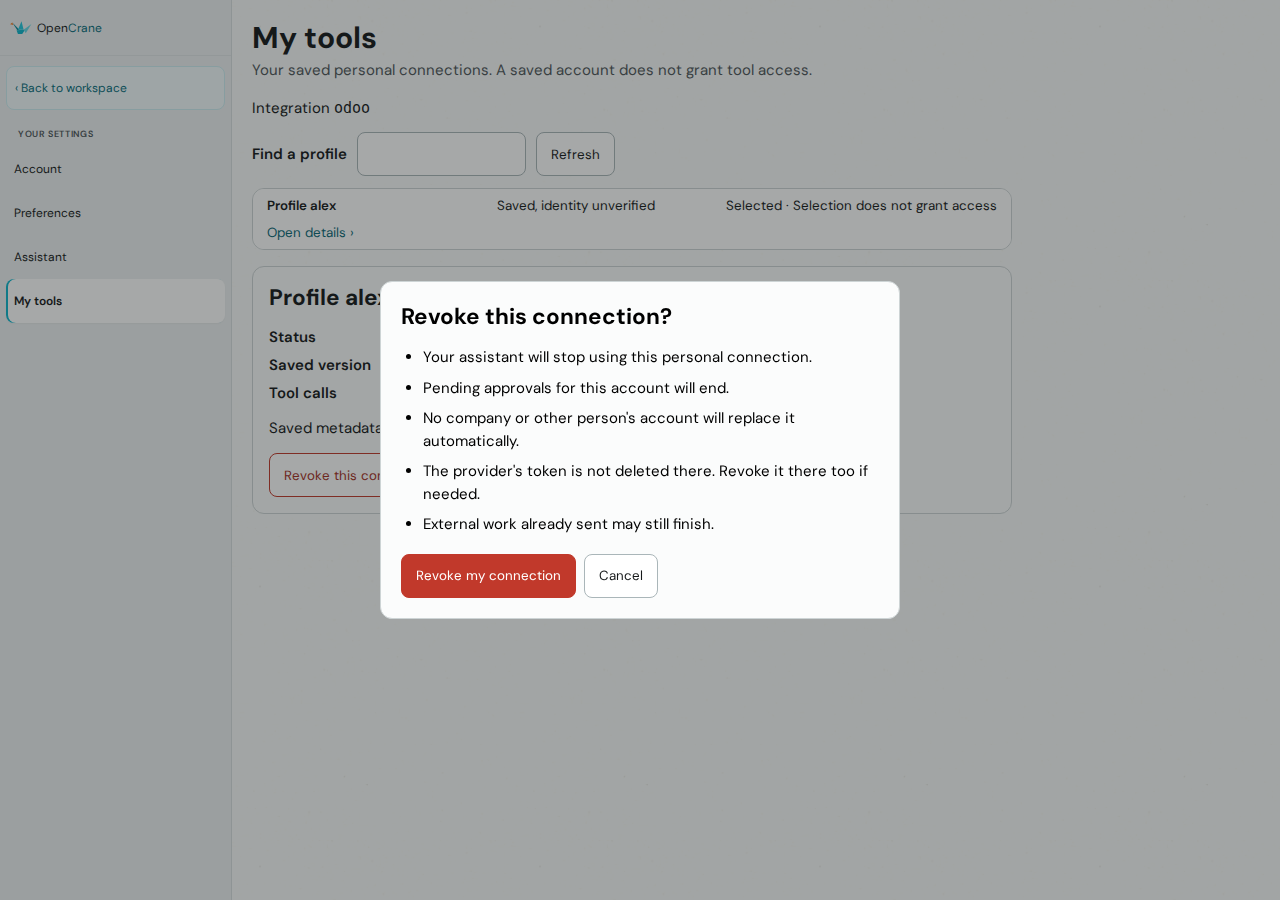
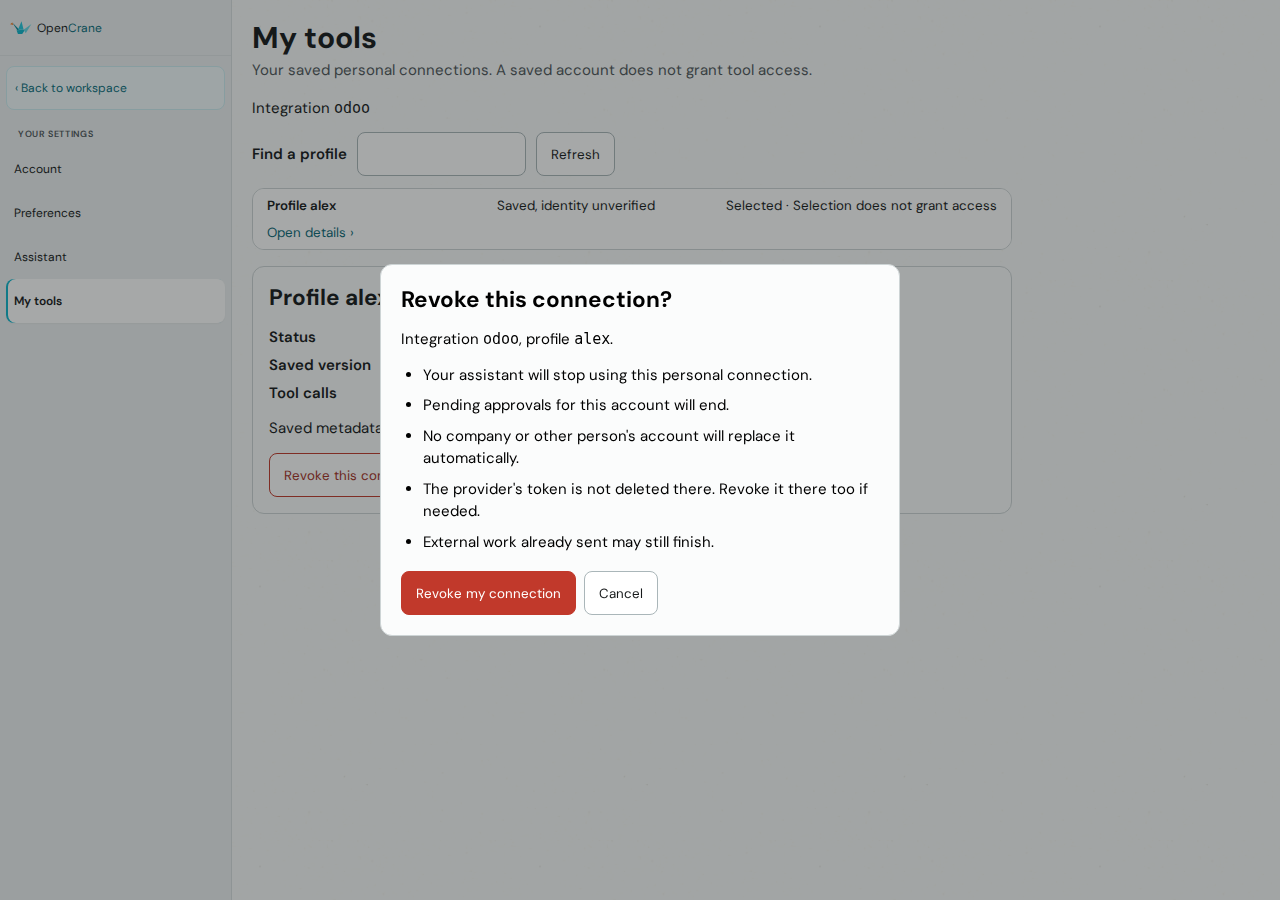
🐛 Keep tool revoke choices and references accurate

Changed region(s): [[0.2812, 0.28, 0.7188, 0.7156]]

diff --git a/apps/web/src/app/settings/my-tools.ts b/apps/web/src/app/settings/my-tools.ts
@@ -35,6 +35,10 @@ const revokeSchema = z.object({
   changeRef: identifier,
   sequence: z.number().int().positive(),
 });
+const pendingChangeSchema = z.object({
+  profileId: identifier,
+  changeRef: identifier,
+});
 type Row = z.infer<typeof rowSchema>;
 type Detail = z.infer<typeof profileSchema>;
 type LoadState = 'loading' | 'ready' | 'failed' | 'access';
@@ -61,11 +65,13 @@ export class MyTools implements OnInit, OnDestroy {
   protected readonly announcement = signal('');
   private request = new AbortController();
   private generation = 0;
+  private detailSelection = 0;
   private reviewOpener?: HTMLElement;
   private pendingProfileId: string | null = null;
 
   ngOnInit(): void {
     if (this.validServerId()) {
+      this.restorePendingChange();
       void this.load(false);
     } else {
       this.loadState.set('ready');
@@ -147,6 +153,7 @@ export class MyTools implements OnInit, OnDestroy {
     this.detail.set(null);
     this.pendingReference.set(null);
     this.pendingProfileId = null;
+    sessionStorage.removeItem(this.pendingChangeKey());
     this.closeReview();
     this.loadState.set('access');
     this.announcement.set('Access changed. Connection details were cleared.');
@@ -154,6 +161,8 @@ export class MyTools implements OnInit, OnDestroy {
   }
 
   protected async openDetail(row: Row): Promise<void> {
+    this.detailSelection += 1;
+    const selection = this.detailSelection;
     this.detail.set(null);
     this.detailLoading.set(true);
     const current = this.generation;
@@ -164,13 +173,44 @@ export class MyTools implements OnInit, OnDestroy {
       if (this.accessRefused(reply)) return;
       if (!reply.ok) throw new Error('Detail unavailable');
       const body: unknown = await reply.json();
-      if (current !== this.generation) return;
-      this.detail.set(profileSchema.parse(body));
+      if (current !== this.generation || selection !== this.detailSelection) return;
+      const profile = profileSchema.parse(body);
+      if (profile.serverId !== this.serverId() || profile.profileId !== row.profileId) {
+        throw new Error('Wrong profile');
+      }
+      this.detail.set(profile);
     } catch {
-      if (current === this.generation) this.outcome.set("We couldn't load this profile.");
+      if (current === this.generation && selection === this.detailSelection) {
+        this.outcome.set("We couldn't load this profile.");
+      }
     } finally {
-      if (current === this.generation) this.detailLoading.set(false);
+      if (current === this.generation && selection === this.detailSelection) {
+        this.detailLoading.set(false);
+      }
     }
+  }
+
+  private pendingChangeKey(): string {
+    return `my-tools-revoke:${this.serverId()}`;
+  }
+
+  private restorePendingChange(): void {
+    const saved = sessionStorage.getItem(this.pendingChangeKey());
+    if (!saved) return;
+    try {
+      const change = pendingChangeSchema.parse(JSON.parse(saved));
+      this.pendingProfileId = change.profileId;
+      this.pendingReference.set(change.changeRef);
+      this.outcome.set('Check the original change before any new action.');
+    } catch {
+      sessionStorage.removeItem(this.pendingChangeKey());
+    }
+  }
+
+  private clearPendingChange(): void {
+    sessionStorage.removeItem(this.pendingChangeKey());
+    this.pendingReference.set(null);
+    this.pendingProfileId = null;
   }
 
   private profileUrl(profileId: string): string {
@@ -205,6 +245,11 @@ export class MyTools implements OnInit, OnDestroy {
     const changeRef = crypto.randomUUID();
     this.pendingReference.set(changeRef);
     this.pendingProfileId = profile.profileId;
+    // Save the reference before sending so a lost reply survives navigation.
+    sessionStorage.setItem(this.pendingChangeKey(), JSON.stringify({
+      profileId: profile.profileId,
+      changeRef,
+    }));
     this.submitting.set(true);
     this.closeReview();
     const current = this.generation;
@@ -221,8 +266,7 @@ export class MyTools implements OnInit, OnDestroy {
       const receipt = revokeSchema.parse(body);
       if (receipt.changeRef !== changeRef) throw new Error('Wrong change');
       this.outcome.set('Connection revoked here. Revoke the token at the provider too.');
-      this.pendingReference.set(null);
-      this.pendingProfileId = null;
+      this.clearPendingChange();
       await this.openDetailById(profile.profileId);
       void this.load(false);
     } catch {
@@ -261,8 +305,7 @@ export class MyTools implements OnInit, OnDestroy {
       if (current !== this.generation) return;
       const change = changeSchema.parse(body);
       if (change.changeRef !== changeRef) throw new Error('Wrong change');
-      this.pendingReference.set(null);
-      this.pendingProfileId = null;
+      this.clearPendingChange();
       this.outcome.set('Connection revoked here. Revoke the token at the provider too.');
       await this.openDetailById(profileId);
       void this.load(false);

diff --git a/apps/web/src/app/settings/my-tools.spec.ts b/apps/web/src/app/settings/my-tools.spec.ts
@@ -231,6 +231,7 @@ describe('My tools', () => {
     });
     const originalReference = first.element.querySelector('.notice code')?.textContent?.trim();
     expect(originalReference).toBeTruthy();
+    expect(sessionStorage.getItem('my-tools-revoke:odoo')).toContain(originalReference);
     first.fixture.destroy();
     const second = view();
     await vi.waitFor(() => {
@@ -246,6 +247,7 @@ describe('My tools', () => {
     expect(requests.some((address) =>
       address.endsWith(`/alex/changes/${originalReference}`))).toBe(true);
     expect(requests.filter((address) => address.endsWith('/revoke'))).toHaveLength(1);
+    expect(sessionStorage.getItem('my-tools-revoke:odoo')).toContain(originalReference);
   });
 
   it('names the safe integration and profile identifiers in the revoke review', async () => {

diff --git a/apps/web/src/app/settings/my-tools.html b/apps/web/src/app/settings/my-tools.html
@@ -100,6 +100,10 @@
 
 <dialog #review class="review" (cancel)="cancelReview()">
   <h2 #reviewHeading tabindex="-1">Revoke this connection?</h2>
+  @if (detail(); as profile) {
+    <p>Integration <code>{{ serverId() }}</code>, profile
+      <code>{{ profile.profileId }}</code>.</p>
+  }
   <ul>
     <li>Your assistant will stop using this personal connection.</li>
     <li>Pending approvals for this account will end.</li>

diff --git a/apps/web/src/app/settings/README.robot.md b/apps/web/src/app/settings/README.robot.md
@@ -13,10 +13,14 @@ no member-facing catalogue of integrations, so the bare settings link asks for
 an integration ID. Rows contain safe profile ids and status only. They do
 not contain verified provider names, scopes, expiry or secrets. Selected is
 shown separately and never means a grant. A blocked profile stays visible.
-The page reads a profile's safe detail before showing Revoke. The review explains
+The page ignores a detail reply after another profile is chosen. It reads a
+profile's safe detail before showing Revoke. The review names its safe profile
+and integration ids and explains
 the local effect and the provider limit. It sends one change reference and saved
-profile revision. A lost reply keeps that reference and only checks its original
-status. A 404 stays unknown and does not unlock another revoke. A refused read
+profile revision. It saves the profile id and change reference in session storage
+before POST, under `my-tools-revoke:<serverId>`. A return visit restores them.
+A lost reply keeps that reference and only checks its original status. A 404
+stays unknown and does not unlock another revoke. A refused read
 clears rows, detail, review and pending reference before late replies can render.
 No token field or token readback exists in this list and revoke slice.
 `npm run visual:screen-p3-8-bearer` uses intercepted replies at both widths.

diff --git a/docs/process/screen-p3-8-bearer/README.md b/docs/process/screen-p3-8-bearer/README.md
@@ -9,7 +9,8 @@ Compared with the matching INT-60, INT-61, INT-65 and INT-66 handoff frames:
 
 - **PARTIAL:** The paper settings shell, stacked phone rows and full-width phone
   review follow the frames. The review states the local effect, no account
-  fallback and the provider-token limit.
+  fallback and the provider-token limit. It names the safe integration and
+  profile ids in both review captures.
 - **NOT RUN:** The empty frame's eligible, unconnected server cannot be shown.
   The landed member API lists saved profiles for one supplied server only.
 - **NOT RUN:** The list frame's provider account name, scopes and checked time,
@@ -20,4 +21,5 @@ Compared with the matching INT-60, INT-61, INT-65 and INT-66 handoff frames:
   paid service was used for these captures.
 
 The component tests cover loading, empty and paged lists, failed refresh,
-search, refused access, late replies and one unknown revoke reference.
+search, refused access, reversed detail replies and one unknown revoke reference
+restored after navigation.

diff --git a/apps/web/README.robot.md b/apps/web/README.robot.md
@@ -4,8 +4,8 @@ For people, read [README.md](README.md) first.
 
 `/account/tools?serverId=<id>` reads the signed-in person's bounded profiles for
 one integration, then the exact safe profile detail before a local revoke.
-Unknown revoke replies retain their original change reference for read-only status
-checks. See `src/app/settings/README.robot.md` and the intercepted display receipt
+Unknown revoke replies retain their original change reference in session storage
+for read-only status checks after navigation. See `src/app/settings/README.robot.md` and the intercepted display receipt
 under `docs/process/screen-p3-8-bearer/`.
 
 The organisation History screen reads paged records and a selected record's

diff --git a/apps/web/src/app/settings/README.md b/apps/web/src/app/settings/README.md
@@ -37,7 +37,9 @@ flowchart LR
 2. **Navigation.** The shell keeps Account, Preferences, Assistant and My tools
    in one menu. Assistant offers a link to the separate persona review screen.
 3. **Connections.** My tools reads saved profiles for an integration. It opens
-   safe details and checks the original request if a revoke reply is lost.
+   safe details for the last chosen profile. Its review names the profile and
+   integration. If a revoke reply is lost, a return visit can check the original
+   request before another attempt.
 
 ## How to run or test it
 
